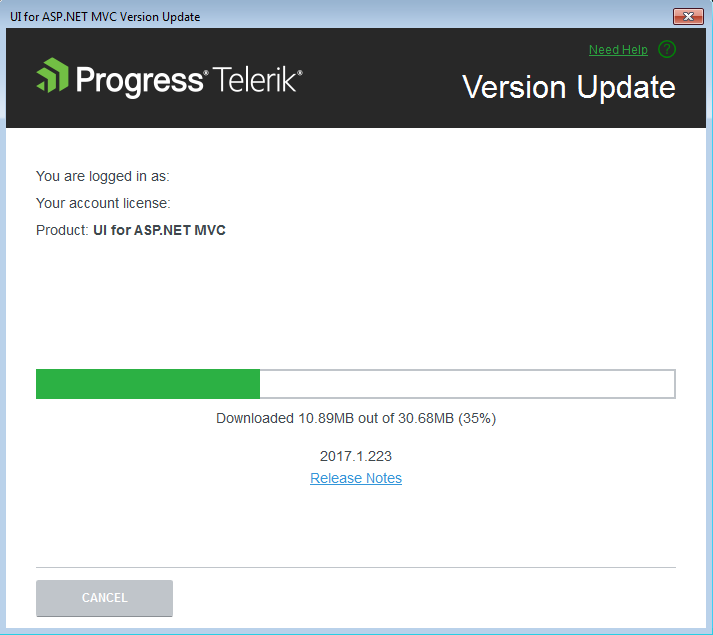
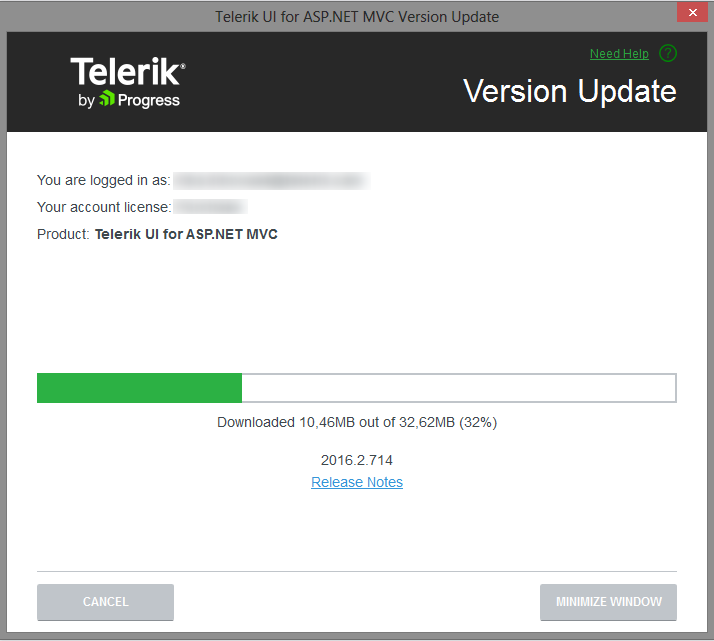
Revert "Changed VSExtensions screenshots to meet Progress rebranding. Changed product titles in VSExtensions documentation"

Changed region(s): [[0.0, 0.0, 1.0, 1.0], [0.3086, 0.5685, 0.9257, 0.778]]

diff --git a/docs-aspnet-mvc/vs-integration/upgrade-api-analyzer.md b/docs-aspnet-mvc/vs-integration/upgrade-api-analyzer.md
@@ -1,25 +1,25 @@
 ---
 title: Upgrade API Analyzer tool
 page_title: Upgrade API Analyzer tool | UI for ASP.NET MVC Visual Studio Integration
-description: "Learn how to analyze a Progress&reg; Telerik&reg; UI for ASP.NET MVC application."
+description: "Learn how to analyze a Telerik UI for ASP.NET MVC application."
 slug: upgrade_api_analyzer_visualstudio_aspnetmvc
 position: 8
 ---
 
-# Telerik Upgrade API Analyzer
+# Telerik Upgrade API Analyzer 
 
 With every release of UI for ASP.NET MVC, we try to avoid introducing changes that affect the public API. However, sometimes such changes are needed for the product to evolve. We understand that this could cause issues when  you upgrade your app to the latest Telerik release. That is why we have the **Telerik Upgrade API Analyzer**; its purpose is to make your upgrade process easier by comparing both versions and determining the problematic areas.
 
 Aside from UI for ASP.NET MVC product, Telerik Upgrade API Analyzer could be used when upgrading your desktop application such as WPF or WinForms as well as your Silverlight application.
 
-**Telerik Upgrade API Analyzer** currently supports Telerik releases from  Q2 2013 SP1 (2013.2.918) until Q1 2017 (2017.1.118). Additional releases can be added upon request.
+**Telerik Upgrade API Analyzer** currently supports Telerik releases from  Q2 2013 SP1 (2013.2.918) until Q1 2017 (2017.1.118). Additional releases can be added upon request. 
 
 ## Why Do You Need This Tool?
-
+           
 In short, the __Telerik Upgrade API Analyzer__ tool will help you with the upgrade of the Telerik controls to a newer version. It thoroughly analyzes the code of your project and provides a list of the changes found between the currently used release and the release you’re planning to upgrade to. Such changes could include obsolete and removed methods and properties as well as modified methods and properties. Additionally, the tool points out the exact piece of code that is affected by a certain change and in cases that involve an obsolete method/property, the tool gives suggestions of how to modify that code.                      
 
 
->importantAt this stage of development, Telerik Upgrade API Analyzer checks only the **C#** code of your application.
+>importantAt this stage of development, Telerik Upgrade API Analyzer checks only the **C#** code of your application. 
 
 ## Where Do You Get Telerik Upgrade API Analyzer?
 
@@ -41,21 +41,21 @@ All you need to do is:
 
 2. Select the current version of Telerik assemblies you are using.
 
-3. Select the version you would like to upgrade to.
+3. Select the version you would like to upgrade to. 
 
 	The three comboboxes are populated on the fly depending on your choices, so you should select the desired values consecutively.
 
 4. Open the solution you’re planning to upgrade.  
 
 > **Important**
->
+> 
 >You can also run the Telerik Upgrade API Analyzer from the [Upgrade Project Wizard]({%slug projectwizardupgrade_visualstudio_aspnetmvc%}), by clicking the *Compatibility* button (see **Figure 2**). In this case, the tool opens with *Technology*, *Your Version* and *Version to Upgrade* parameters pointed out in the wizard. When Upgrade API Analyzer is started directly through the *Compatibility* button without installing the tool first, the installation starts automatically. In case .NET Framework 4.5.2 is not present on your machine, the application prompts you to install it manually at the end of the installation.
 
 #### __Figure 2: Compatibility button in Upgrade Project Wizard__
 
 ![](images/upgrade-api-analyzer_5.png)
 
-The tool starts analyzing the code, as shown in __Figure 3__, and lists all the changes found between both versions, as demonstrated in __Figure 4__.
+The tool starts analyzing the code, as shown in __Figure 3__, and lists all the changes found between both versions, as demonstrated in __Figure 4__. 
 
 #### __Figure 3: The tool starts analyzing as soon as you open a solution__
 
@@ -64,8 +64,8 @@ The tool starts analyzing the code, as shown in __Figure 3__, and lists all the 
 #### __Figure 4: Upgrade API Analyzer lists the found differences__
 
 ![](images/upgrade-api-analyzer_2.png)
-
-__Upgrade API Analyzer__ provides a detailed list of the found differences between both versions in a convenient way for reviewing.  The tool uses [RadGridView for WPF](http://docs.telerik.com/devtools/wpf/controls/radgridview/overview2.html) to present the results, so you can benefit from its features such as sorting, filtering and resizing columns.
+ 
+__Upgrade API Analyzer__ provides a detailed list of the found differences between both versions in a convenient way for reviewing.  The tool uses [RadGridView for WPF](http://docs.telerik.com/devtools/wpf/controls/radgridview/overview2.html) to present the results, so you can benefit from its features such as sorting, filtering and resizing columns. 
 
 For each of the changes, you can see the following information:
 

diff --git a/docs-aspnet-mvc/vs-integration/convert-project-wizard.md b/docs-aspnet-mvc/vs-integration/convert-project-wizard.md
@@ -1,20 +1,20 @@
 ---
 title: Convert Projects
 page_title: Convert Projects | UI for ASP.NET MVC Visual Studio Integration
-description: "Learn how to convert an existing ASP.NET MVC application to a Progress&reg; Telerik&reg; UI for ASP.NET MVC application."
+description: "Learn how to convert an existing ASP.NET MVC application to a Telerik UI for ASP.NET MVC application."
 slug: projectwizardcoversion_visualstudio_aspnetmvc
 position: 5
 ---
 
 # Convert Projects
 
-This article demonstrates how to convert an existing ASP.NET MVC application to a Progress&reg;  Telerik&reg; UI for ASP.NET MVC application.
+This article demonstrates how to convert an existing ASP.NET MVC application to a Telerik UI for ASP.NET MVC application.
 
 ## Getting Started
 
 ### The Basics
 
-The **Convert Project Wizard** converts an existing ASP.NET MVC 4 or 5 to a Progress&reg; Telerik&reg; UI for ASP.NET MVC application.
+The **Convert Project Wizard** converts an existing ASP.NET MVC 4 or 5 to a Telerik UI for ASP.NET MVC application.
 
 To start the **Convert Project Wizard**, click **Telerik** > **UI for ASP.NET MVC** > **Convert to Telerik Application**.
 
@@ -33,7 +33,7 @@ The distribution selection lets you choose the version of the Telerik UI for ASP
 
 ### Theme Selection
 
-The theme selection lets you choose the visual theme for your Progress&reg; Telerik&reg; UI for ASP.NET MVC application.
+The theme selection lets you choose the visual theme for your Telerik UI for ASP.NET MVC application.
 
 **Figure 2. Theme selection**
 

diff --git a/docs-aspnet-mvc/vs-integration/latest-version-retrieval.md b/docs-aspnet-mvc/vs-integration/latest-version-retrieval.md
@@ -1,16 +1,16 @@
 ---
 title: Download New Versions
 page_title: Download New Versions | UI for ASP.NET MVC Visual Studio Integration
-description: "Learn how to keep your projects updated when using Progress&reg; Telerik&reg; UI for ASP.NET MVC."
+description: "Learn how to keep your projects updated when using Telerik UI for ASP.NET MVC."
 slug: latestversionretrieval_visualstudio_aspnetmvc
 position: 10
 ---
 
 # Download New Versions
 
-With the Telerik UI for ASP.NET MVC Visual Studio Extensions you keep your projects in an up-to-date state. The Latest Version Acquirer tool automatically retrieves the latest Progress&reg; Telerik&reg; UI for ASP.NET MVC distribution available on the Telerik website.
+With the Telerik UI for ASP.NET MVC Visual Studio Extensions you keep your projects in an up-to-date state. The Latest Version Acquirer tool automatically retrieves the latest Telerik UI for ASP.NET MVC distribution available on the Telerik website.
 
-Once a day, upon loading a project with UI for ASP.NET MVC controls, the extensions query the Telerik website for a new version of Progress&reg; Telerik&reg; UI for ASP.NET MVC. A notification gets displayed when a new version is discovered.
+Once a day, upon loading a project with UI for ASP.NET MVC controls, the extensions query the Telerik website for a new version of Telerik UI for ASP.NET MVC. A notification gets displayed when a new version is discovered.
 
 **Figure 1. A displayed notification upon locating a new Telerik UI for ASP.NET MVC version**
 

diff --git a/docs-aspnet-mvc/vs-integration/introduction.md b/docs-aspnet-mvc/vs-integration/introduction.md
@@ -1,7 +1,7 @@
 ---
 title: Overview
 page_title: Overview | UI for ASP.NET MVC Visual Studio Integration
-description: "Learn how to enhance experience of developing web applications with Progress &reg; Telerik&reg; UI for ASP.NET MVC."
+description: "Learn how to enhance experience of developing web applications with Telerik UI for ASP.NET MVC."
 slug: overview_visualstudio_aspnetmvc
 position: 1
 ---
@@ -15,7 +15,7 @@ The extensions handle the following major points:
 * Project [Creation]({% slug newprojectwizards_visualstudio_aspnetmvc %}) and [Configuration]({% slug projectwizardconfig_visualstudio_aspnetmvc %}) Wizards&mdash;Web asset management, adding the required settings to `web.config`, changing the theme.
 * Project [Upgrade]({% slug projectwizardupgrade_visualstudio_aspnetmvc %})&mdash;Upgrading Telerik UI for ASP.NET MVC to a new version.
 
-The Progress&reg; Telerik&reg; UI for ASP.NET MVC Visual Studio Extensions are distributed with the Progress&reg; Telerik&reg; UI for ASP.NET MVC installer. They support Visual Studio 2010, 2012, 2013, 2015, and 2017, which handle ASP.NET MVC 4 and 5 applications.
+The Telerik UI for ASP.NET MVC Visual Studio Extensions are distributed with the Telerik UI for ASP.NET MVC installer. They support Visual Studio 2010, 2012, 2013, 2015, and 2017, which handle ASP.NET MVC 4 and 5 applications.
 
 > **Important**
 >

diff --git a/docs-aspnet-mvc/vs-integration/configure-project-wizard.md b/docs-aspnet-mvc/vs-integration/configure-project-wizard.md
@@ -1,21 +1,20 @@
-
 ---
 title: Configure Projects
 page_title: Configure Projects | UI for ASP.NET MVC Visual Studio Integration
-description: "Learn how to configure a Progress&reg; Telerik&reg; UI for ASP.NET MVC application."
+description: "Learn how to configure a Telerik UI for ASP.NET MVC application."
 slug: projectwizardconfig_visualstudio_aspnetmvc
 position: 6
 ---
 
 # Configure Projects
 
-This article demonstrates how to configure a Progress&reg; Telerik&reg; UI for ASP.NET MVC application.
+This article demonstrates how to configure a Telerik UI for ASP.NET MVC application.
 
 ## Getting Started
 
 ### The Basics
 
-The **Project Configuration Wizard** configures the visual theme and project settings of existing Progress&reg; Telerik&reg; UI for ASP.NET MVC applications.
+The **Project Configuration Wizard** configures the visual theme and project settings of existing Telerik UI for ASP.NET MVC applications.
 
 To open the **Project Configuration Wizard**, click **Telerik** > **UI for ASP.NET MVC** > **Configure Project**.
 

diff --git a/docs-aspnet-mvc/vs-integration/create-kendo-professional-project.md b/docs-aspnet-mvc/vs-integration/create-kendo-professional-project.md
@@ -1,20 +1,20 @@
 ---
 title: Create Kendo UI Professional Projects
 page_title: Create Kendo UI Professional Projects | UI for ASP.NET MVC Visual Studio Integration
-description: "Learn how to create a new Progress&reg; Kendo UI&reg; Professional application."
+description: "Learn how to create a new Kendo UI Professional application."
 slug: newprojectwizard_visualstudio_kendoui
 position: 3
 ---
 
 # Create Kendo UI Professional Projects
 
-This article demonstrates how to create a new Progress&reg; Kendo UI&reg; Professional application.
+This article demonstrates how to create a new Telerik Kendo UI Professional application.
 
 ## Getting Started
 
 ### The Basics
 
-New Progress&copy; Telerik&copy; Kendo UI Professional applications are created by using the **Create New Project Wizard**.
+New Telerik Kendo UI Professional applications are created by using the **Create New Project Wizard**.
 
 To start the **Create New Project Wizard**, follow either of the approaches below.
 

diff --git a/docs-aspnet-mvc/vs-integration/new-project-wizard.md b/docs-aspnet-mvc/vs-integration/new-project-wizard.md
@@ -1,20 +1,20 @@
 ---
 title: Create Projects
 page_title: Create Projects | UI for ASP.NET MVC Visual Studio Integration
-description: "Learn how to create a new Progress&reg; Telerik&reg; UI for ASP.NET MVC application."
+description: "Learn how to create a new Telerik UI for ASP.NET MVC application."
 slug: newprojectwizards_visualstudio_aspnetmvc
 position: 2
 ---
 
 # Create Projects
 
-This article demonstrates how to create a new Progress&reg; Telerik&reg; UI for ASP.NET MVC application.
+This article demonstrates how to create a new Telerik UI for ASP.NET MVC application.
 
 ## Getting Started
 
 ### The Basics
 
-New Progress&reg; Telerik&reg; UI for ASP.NET MVC applications are created by using the **Create New Project Wizard**.
+New Telerik UI for ASP.NET MVC applications are created by using the **Create New Project Wizard**.
 
 To start the **Create New Project Wizard**, follow either of the approaches below.
 

diff --git a/docs-aspnet-mvc/vs-integration/upgrade-wizard.md b/docs-aspnet-mvc/vs-integration/upgrade-wizard.md
@@ -1,20 +1,20 @@
 ---
 title: Upgrade Projects
 page_title: Upgrade Projects | UI for ASP.NET MVC Visual Studio Integration
-description: "Learn how to upgrade a Progress&reg; Telerik&reg; UI for ASP.NET MVC application."
+description: "Learn how to upgrade a Telerik UI for ASP.NET MVC application."
 slug: projectwizardupgrade_visualstudio_aspnetmvc
 position: 7
 ---
 
 # Upgrade Projects
 
-This article demonstrates how to upgrade a Progress&reg; Telerik&reg; UI for ASP.NET MVC application.
+This article demonstrates how to upgrade a Telerik UI for ASP.NET MVC application.
 
 ## Getting Started
 
 ### The Basics
 
-The **Upgrade Project Wizard** upgrades existing Progress&reg; Telerik&reg; UI for ASP.NET MVC applications.
+The **Upgrade Project Wizard** upgrades existing Telerik UI for ASP.NET MVC applications.
 
 To open the **Upgrade Project Wizard**, click **Telerik** > **UI for ASP.NET MVC** > **Upgrade Wizard**.
 

diff --git a/docs-aspnet-mvc/vs-integration/vsextensions-options.md b/docs-aspnet-mvc/vs-integration/vsextensions-options.md
@@ -1,7 +1,7 @@
 ---
 title: Visual Studio Extensions Options
 page_title: Visual Studio Extensions Options | UI for ASP.NET MVC Visual Studio Integration
-description: "Learn how to use the settings Visual Studio provides that allow you to configure the Progress&reg; Telerik&reg; UI for ASP.NET MVC Visual Studio Extensions to best suit your needs."
+description: "Learn how to use the settings Visual Studio provides that allow you to configure the Telerik UI for ASP.NET MVC Visual Studio Extensions to best suit your needs."
 slug: vsextensionsoptions_visualstudio_aspnetmvc
 position: 9
 ---
